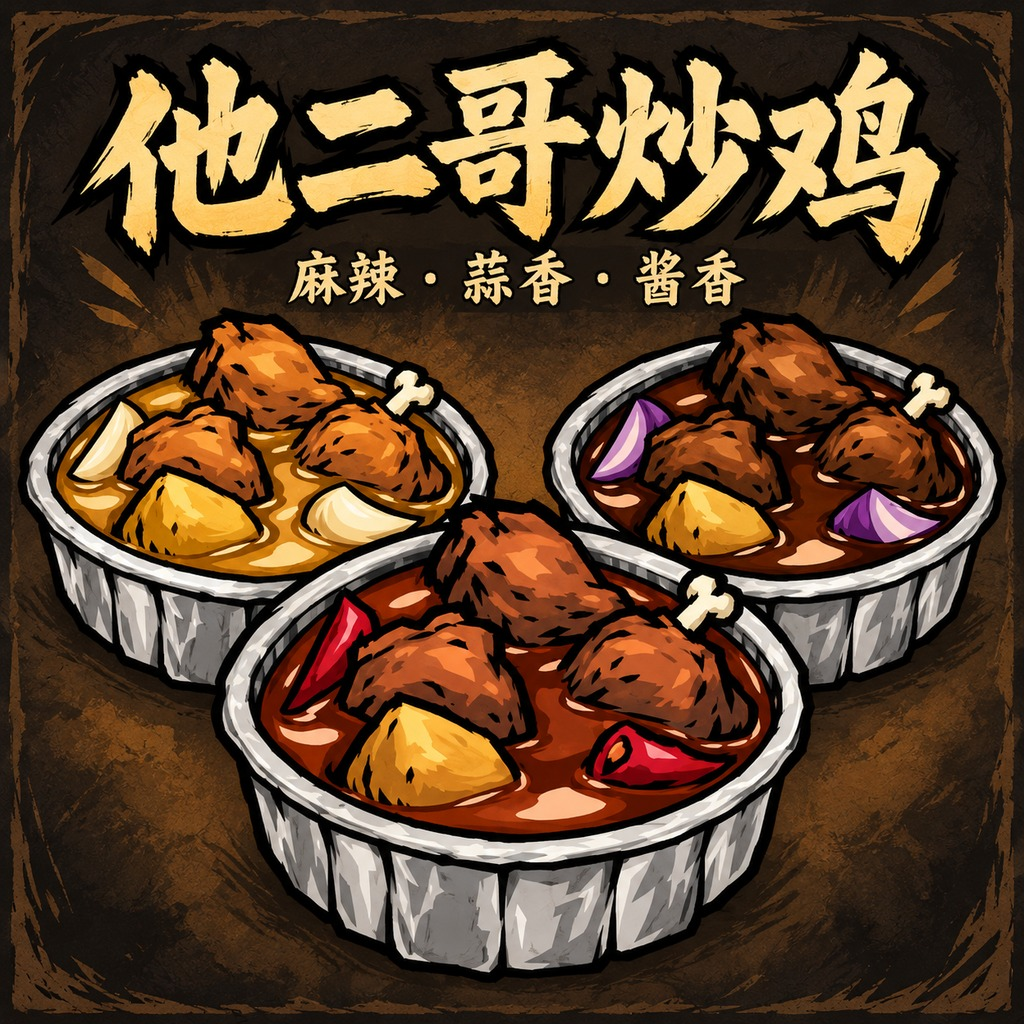
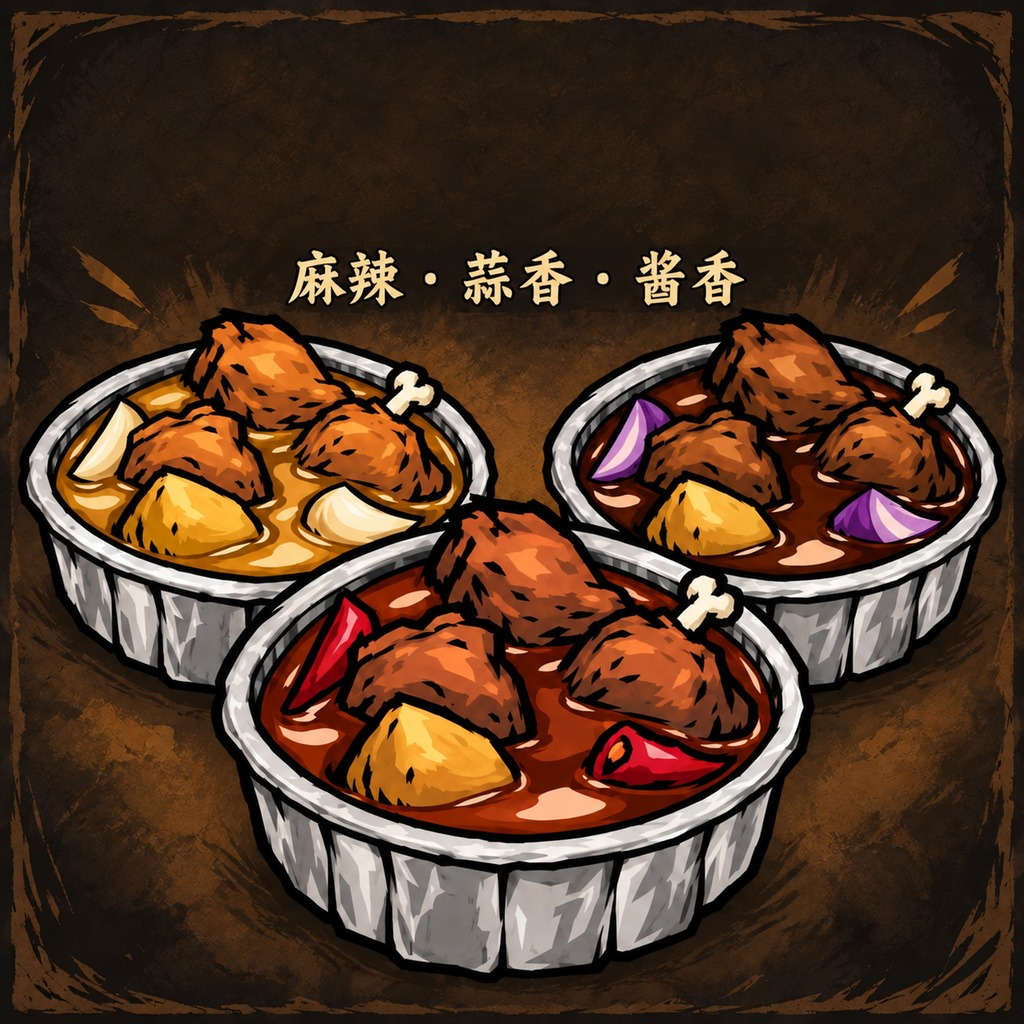
Remove brand title from Workshop cover

diff --git a/art/README.md b/art/README.md
@@ -20,9 +20,11 @@
 
 ## 工坊封面
 
-`preview.jpg` 使用内置 imagegen，以本项目三款料理预览作参考生成，再导出为不含个人元数据的 1024×1024 JPEG。
-生成提示词如下：
+`preview.jpg` 使用内置 imagegen 编辑生成，已去掉顶部品牌名称，仅保留三种口味文字和料理画面。
+导出为不含个人元数据的 1024×1024 JPEG。
+
+本轮编辑提示词：
 
 ```text
-Create a square Steam Workshop cover for a Don't Starve Together food mod. The attached reference is a sheet of the actual three game sprites. Use ONLY the three large foil tubs from the top row as food art references; ignore all small duplicate icons and English labels. Preserve the juicy chunky chicken in round silver foil takeaway tubs, thick rough black outlines and simple muted earthy color blocks. Three tubs arranged in a strong triangle: garlic golden gravy back-left, soy dark brown gravy with purple onion back-right, spicy reddish gravy with red peppers in the foreground center. Large readable Chinese title at the top, exact text: 他二哥炒鸡 . One smaller warm cream subtitle below title, exact text: 麻辣 · 蒜香 · 酱香 . Dark charcoal-brown hand-inked parchment background with a subtle warm ochre vignette; minimal decorative rough border. Cozy hearty survival-game mood. Food should occupy the lower two-thirds of the image and remain clear as a small thumbnail. NO characters, NO official logos, NO UI, NO inventory grid, NO other text, no watermarks, no tiny decorations, no photo-realistic details. Deliver a polished centered square promotional cover, opaque background.
+Remove only the large brand title and its black drop shadow from the top of the supplied cover. Fill the area seamlessly with the existing dark brown parchment background. Preserve the smaller flavor subtitle, all three round foil containers of juicy chicken, their layout, colors, rough ink style and border. Do not add a replacement title, logo, symbol, watermark or other text. Keep the square opaque composition.
 ```
